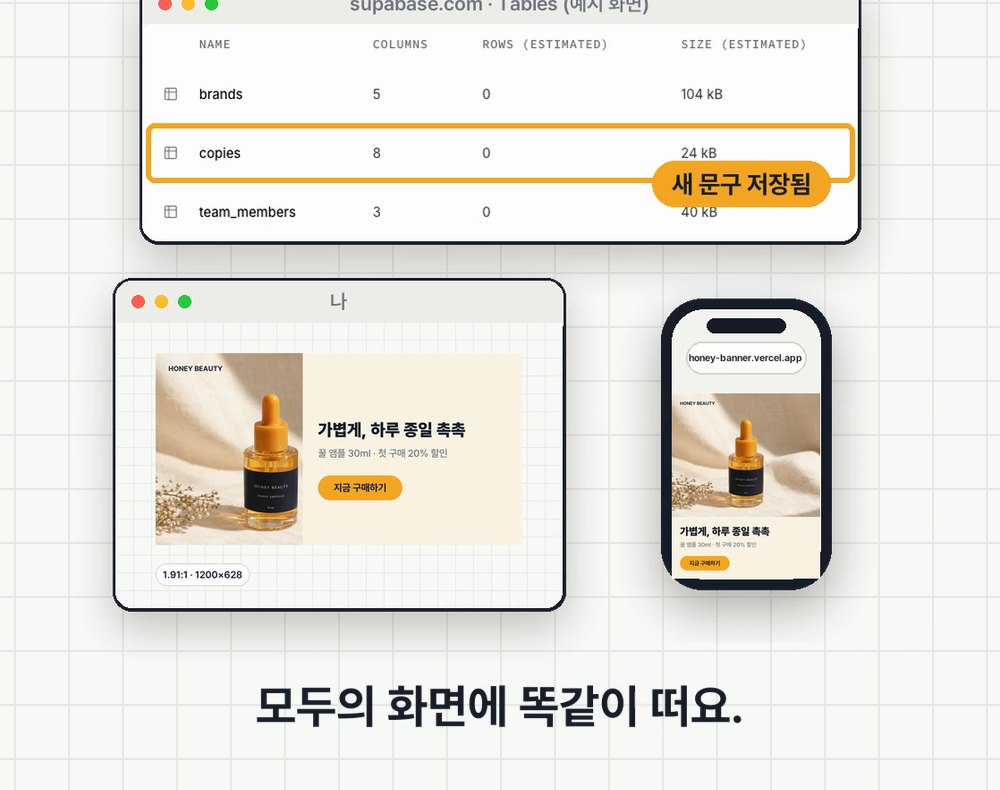
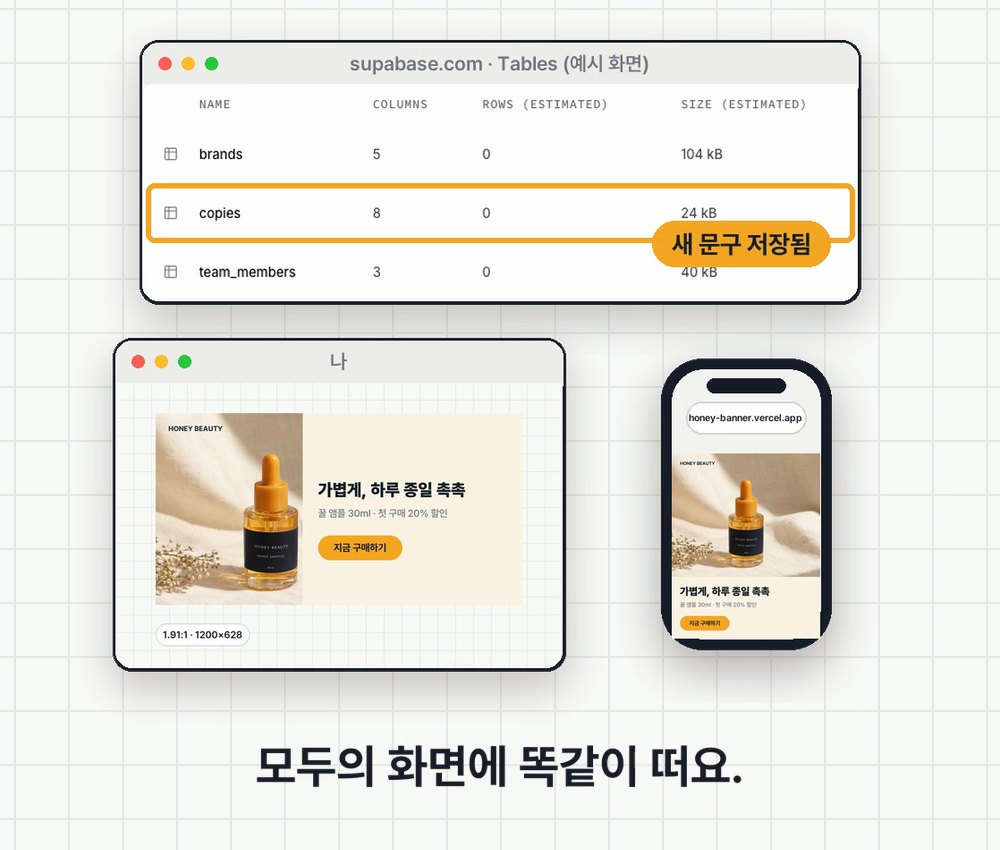
EP.16 이전 편 링크 EP.15로 · 구조 이미지 다시 자름

Changed region(s): [[0.093, 0.0, 0.868, 0.7899], [0.248, 0.8506, 0.62, 0.9418], [0.651, 0.8506, 0.744, 0.9418]]

diff --git a/ep/16/index.html b/ep/16/index.html
@@ -73,7 +73,7 @@
   </section>
 
   <nav class="next">
-    <a href="../14/"><small>← 이전 편</small>EP.14 Claude vs GPT, 배너 20장 대결</a>
+    <a href="../15/"><small>← 이전 편</small>EP.15 배포 링크 보냈는데 팀원은 로그인 창만</a>
     <a href="../../" style="text-align:right"><small>목록</small>전체 회차 보기</a>
   </nav>
 
